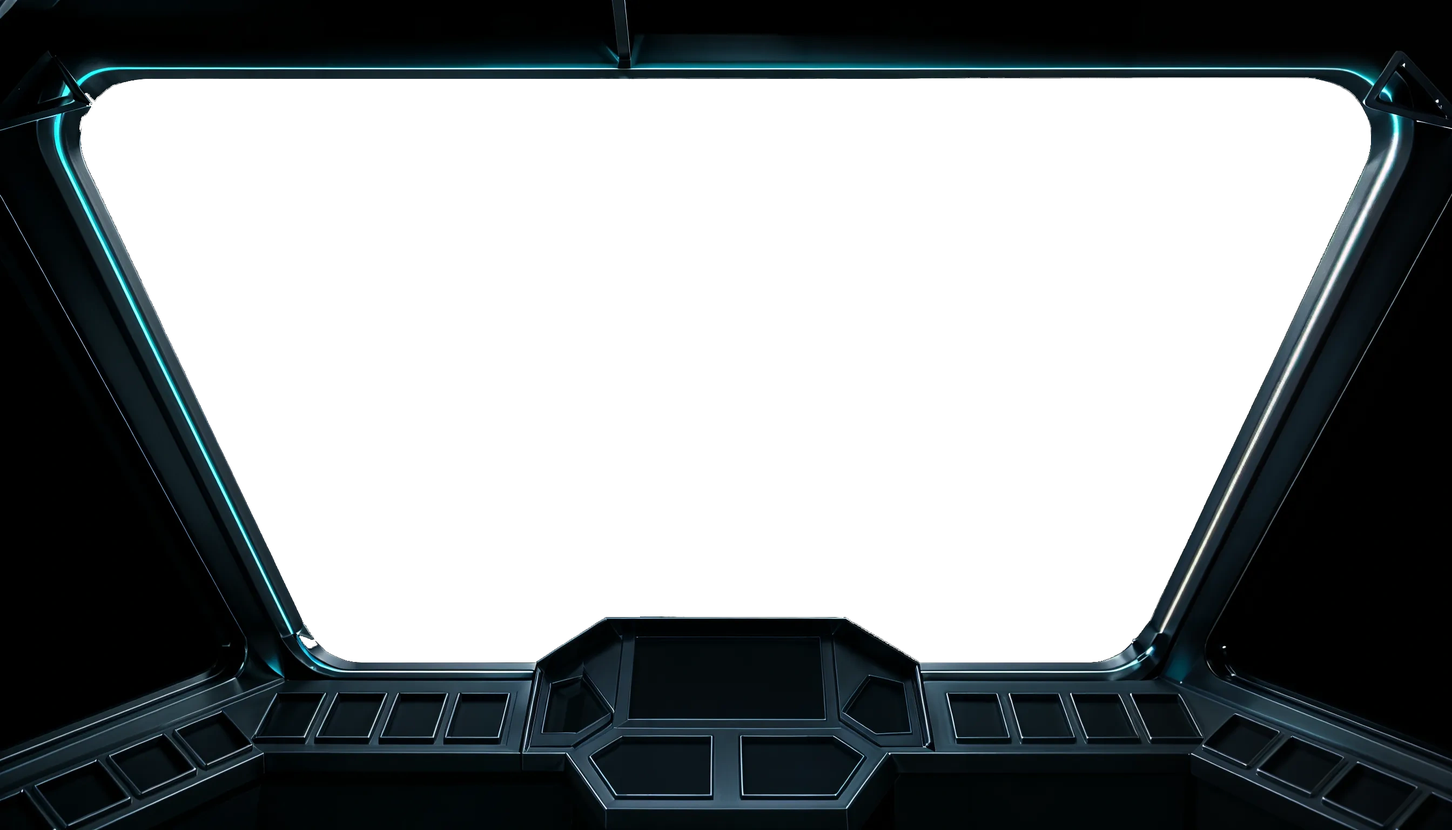
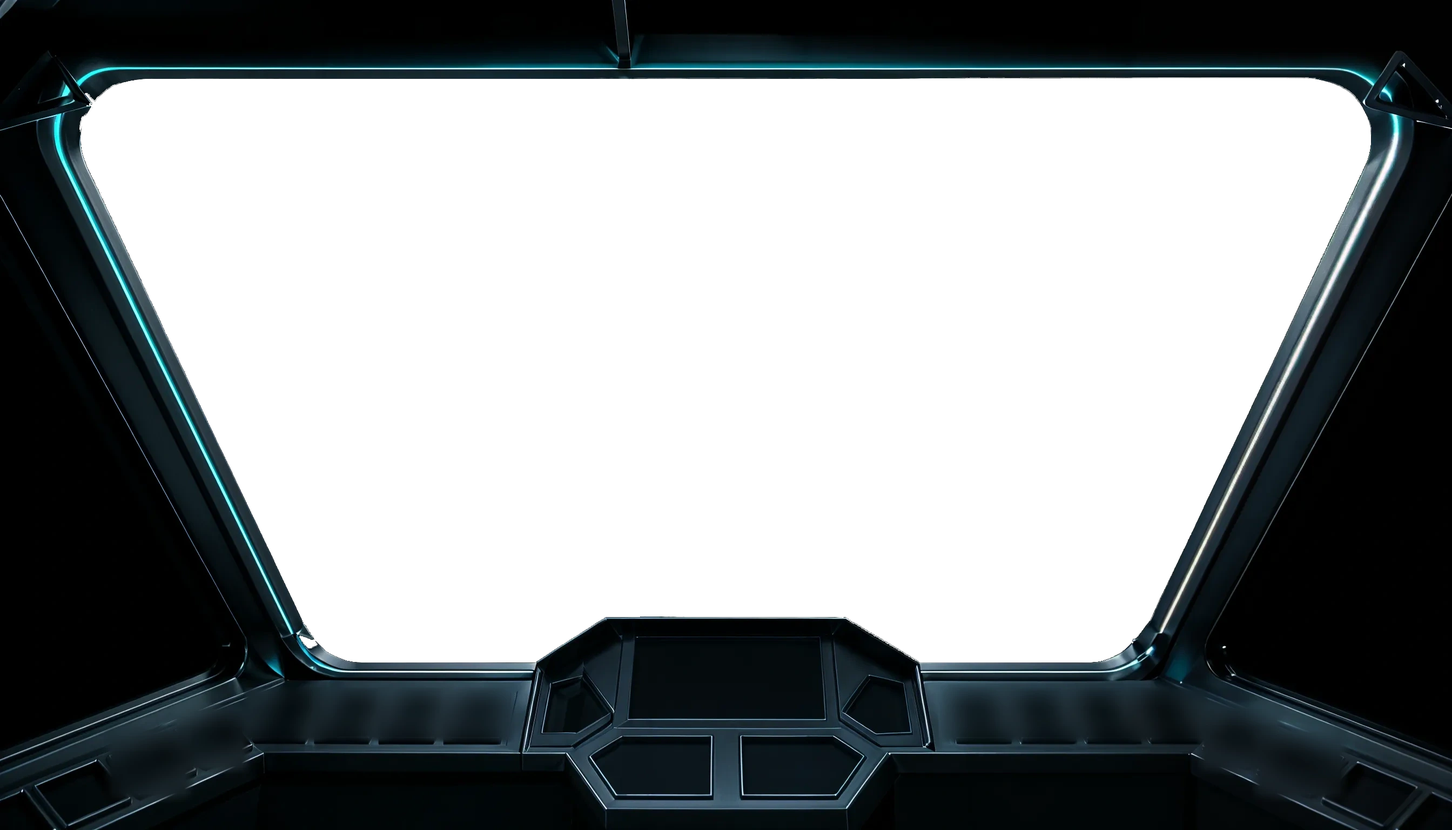
Панель вшита в стену салона, экраны в размер настоящих
Требование владельца дословно: «панель должна быть частью корабля,
вшитая в свой угол; захожу - вижу её сразу, поворачиваюсь на 360 -
она остаётся где была, приближаюсь - она не меняется; она
физически не должна быть другой или ездить по экрану».

Прежняя сборка была прибита к кадру: картинка кабины, свет
приборов и тела клавиш ехали с камерой и проявлялись к подъезду -
панель висела полупрозрачной поверх любой карточки. Теперь панель
запекается в одну текстуру (снимок кабины плюс ниши, тела и свет
клавиш - тем же кодом, что рисует их в игре) и стоит на плоскости
В МИРЕ салона, на луче финальной точки в дистанции стены. Из
финальной точки она заполняет кадр один в один - первый кадр игры
показывает ту же картину тем же снимком, подмены нет по построению.

К ней прилагаются: запас снимка по краям с растворением кромок
(обрез читался тёмной плитой), срез всего выше верхней балки
(тёмный верх снимка затемнял планету прямоугольником), тёмные
борта позади панели по бокам окна (в щели сквозила планета, на
телефоне корпус читался призраком). Экранная сборка и трёхмерная
рама в режиме сцены скрыты полностью.

Ниши на снимках кабины замазаны фоторедактором: раньше фотониши
своей геометрией двоились с рисованными телами клавиш - «кнопки
кривые, не под размер ячеек». Теперь геометрия одна: тела рисует
код, снимок даёт только корпус.

Экраны салона приведены к размеру настоящих настенных дисплеев:
прежний минимум в половину кадра и потолок в 86% превращал их в
[…]

diff --git a/rocketcdn/assets/rc-flight.js b/rocketcdn/assets/rc-flight.js
@@ -5548,6 +5548,7 @@ function hideHint() {
 
 function size() {
   if (!W3 || !F.open) return;
+  if (F.stage) stageWall();
   deckSkinSoon();
   var w = innerWidth, h = innerHeight;
   W3.r.setSize(w, h, false);
@@ -7944,6 +7945,12 @@ function open() {
     /* Салон уходит из сцены ровно в тот кадр, когда его корпус в
        проёме совпал с плоской рамкой полёта: подмены не видно, а
        геометрия комнаты больше не тратит ни кадра. */
+    if (cabin && cabin.console3 && cabin.console3.group) cabin.console3.group.visible = true;
+    if (stageWallMesh) {
+      stageWallMesh.visible = false;
+      var бт = stageWallMesh.userData.борта || [];
+      for (var бi = 0; бi < бт.length; бi++) бт[бi].visible = false;
+    }
     cabinFlightMode();
     cabFrameLayer();
     deckLayer();
@@ -9654,6 +9661,185 @@ function deckFrame(ts, dt) {
   d["кадр"](Math.min(0.05, dt || 0.016));
 }
 
+/* ── Панель, вшитая в стену салона ───────────────────────────
+   Требование владельца дословно: «панель должна быть частью
+   корабля, вшитая в свой угол, я захожу и вижу её сразу, поворачиваюсь
+   на 360 - она остаётся где была, приближаюсь - она не меняется,
+   она физически не должна быть другой или ездить по экрану».
+
+   Прежняя сборка была прибита к КАДРУ: картинка кабины, свет
+   приборов и тела клавиш ехали с камерой и проявлялись к подъезду -
+   владелец видел прозрачную панель поверх любой карточки. Теперь
+   панель запекается в ОДНУ текстуру (картинка кабины + ниши, тела и
+   свет клавиш - тем же кодом, что рисует их в игре) и натягивается
+   на плоскость, стоящую В МИРЕ салона у стены сектора остекления.
+
+   Геометрия стыка: плоскость стоит на луче взгляда финальной точки
+   p0 на расстоянии CAM_WIN и по размеру ровно заполняет фрустум из
+   p0. Значит в конце подъезда (камера в p0, взгляд по q1) панель
+   занимает кадр один в один - и первый кадр игры показывает ту же
+   картину тем же снимком. Подмены нет по построению. */
+var stageWallMesh = null, stageWallSize = { w: 0, h: 0 };
+function stageWall() {
+  if (!cabin || !W3 || !g.THREE || !g.RC_DECK || !g.RC_CAB_FLAT || !g.RC_CAB_DECK) return;
+  var T = g.THREE;
+  var W = innerWidth, H = innerHeight;
+  if (stageWallMesh && stageWallSize.w === W && stageWallSize.h === H) return;
+  var вид = g.RC_DECK["какой"](W, H);
+  var meta = g.RC_CAB_FLAT[вид] || g.RC_CAB_FLAT["широкая"];
+  var план = g.RC_CAB_DECK[вид] || g.RC_CAB_DECK["широкая"];
+  if (!meta || !план) return;
+
+  var img = new Image();
+  img.decoding = "async";
+  img.onload = function () {
+    if (!cabin || !W3) return;
+    /* Запекаем в разрешении кадра: панель на стене обязана быть
+       того же качества, что плоская рамка игры */
+    var dpr = Math.min(2, g.devicePixelRatio || 1);
+    /* Запас по краям: из глубины салона видно больше, чем кадр, и
+       без запаса плоскость обрезала снимок резкой линией прямо над
+       рамой окна. Снимок в cover-раскладке больше кадра, его
+       настоящие пиксели и продолжают панель за кромку. */
+    var PAD = 0.16;
+    var Wб = Math.round(W * (1 + PAD * 2)), Hб = Math.round(H * (1 + PAD * 2));
+    var c = doc.createElement("canvas");
+    c.width = Math.round(Wб * dpr);
+    c.height = Math.round(Hб * dpr);
+    var x = c.getContext("2d");
+    x.scale(dpr, dpr);
+    var пк = g.RC_DECK["покрытие"](meta, W, H);
+    var сдвX = Math.round(W * PAD), сдвY = Math.round(H * PAD);
+    x.drawImage(img, пк.ox + сдвX, пк.oy + сдвY, пк.dw, пк.dh);
+    x.translate(сдвX, сдвY);
+    /* Ниши, тела и свет клавиш - тем же модулем, что в игре:
+       панель на стене и панель в игре не могут разойтись */
+    try {
+      var d2 = g.RC_DECK.создать();
+      d2.вид(meta, план, doc.documentElement.lang !== "en");
+      d2.размер(W, H, dpr);
+      d2.кадр(0.016);
+      if (d2["тело"]) x.drawImage(d2["тело"], 0, 0, W, H);
+      x.globalCompositeOperation = "screen";
+      x.drawImage(d2.canvas, 0, 0, W, H);
+      x.globalCompositeOperation = "source-over";
+    } catch (eD) {}
+
+    /* Кромка растворяется: обрез снимка на границе запаса читался
+       тёмной плитой поверх космоса. Маска собирается отдельным
+       холстом (полный залив, края стёрты градиентами) и снимается
+       одной операцией: иначе каждая полоса destination-in стирала
+       бы всё вне себя. */
+    var мк = doc.createElement("canvas");
+    мк.width = c.width; мк.height = c.height;
+    var мх = мк.getContext("2d");
+    мх.scale(dpr, dpr);
+    мх.fillStyle = "#fff";
+    мх.fillRect(0, 0, Wб, Hб);
+    мх.globalCompositeOperation = "destination-out";
+    var кр = Math.round(Math.min(Wб, Hб) * 0.10);
+    var гЛ = мх.createLinearGradient(0, 0, кр, 0);
+    гЛ.addColorStop(0, "rgba(0,0,0,1)"); гЛ.addColorStop(1, "rgba(0,0,0,0)");
+    мх.fillStyle = гЛ; мх.fillRect(0, 0, кр, Hб);
+    var гП = мх.createLinearGradient(Wб - кр, 0, Wб, 0);
+    гП.addColorStop(0, "rgba(0,0,0,0)"); гП.addColorStop(1, "rgba(0,0,0,1)");
+    мх.fillStyle = гП; мх.fillRect(Wб - кр, 0, кр, Hб);
+    /* Сверху стираем всё выше верхней балки рамы: тёмный верх
+       снимка затемнял планету прямоугольником. Балку оставляем,
+       переход в полсотни точек прямо над ней. */
+    var yр = пк.oy + сдвY + (meta["коробка"] && meta["коробка"].t ? meta["коробка"].t : 0.09) * пк.dh;
+    var гВ = мх.createLinearGradient(0, Math.max(0, yр - 52), 0, yр + 8);
+    гВ.addColorStop(0, "rgba(0,0,0,1)"); гВ.addColorStop(1, "rgba(0,0,0,0)");
+    мх.fillStyle = гВ; мх.fillRect(0, 0, Wб, Math.max(0, yр + 8));
+    var гН = мх.createLinearGradient(0, Hб - кр, 0, Hб);
+    гН.addColorStop(0, "rgba(0,0,0,0)"); гН.addColorStop(1, "rgba(0,0,0,1)");
+    мх.fillStyle = гН; мх.fillRect(0, Hб - кр, Wб, кр);
+    x.setTransform(1, 0, 0, 1, 0, 0);
+    x.globalCompositeOperation = "destination-in";
+    x.drawImage(мк, 0, 0);
+    x.globalCompositeOperation = "source-over";
+
+
+    var tex = new T.CanvasTexture(c);
+    if (T.SRGBColorSpace) tex.colorSpace = T.SRGBColorSpace;
+    tex.anisotropy = 4;
+
+    /* Плоскость по фрустуму из p0 на дистанции стены */
+    var D = (g.RC_PANEL && g.RC_PANEL.CAM_WIN) || 0.86;
+    var fovV = (W3.fov0 || 72) * Math.PI / 180;
+    var Hm0 = 2 * D * Math.tan(fovV / 2);
+    var Wm0 = Hm0 * (W / H);
+    var Hm = Hm0 * (1 + PAD * 2);
+    var Wm = Wm0 * (1 + PAD * 2);
+    if (stageWallMesh) {
+      try {
+        var бт2 = stageWallMesh.userData.борта || [];
+        for (var бj = 0; бj < бт2.length; бj++) {
+          бт2[бj].parent && бт2[бj].parent.remove(бт2[бj]);
+          бт2[бj].geometry.dispose(); бт2[бj].material.dispose();
+        }
+        stageWallMesh.parent && stageWallMesh.parent.remove(stageWallMesh);
+        stageWallMesh.geometry.dispose();
+        stageWallMesh.material.map && stageWallMesh.material.map.dispose();
+        stageWallMesh.material.dispose();
+      } catch (eR) {}
+      stageWallMesh = null;
+    }
+    var mesh = new T.Mesh(
+      new T.PlaneGeometry(Wm, Hm),
+      new T.MeshBasicMaterial({ map: tex, transparent: true, fog: false })
+    );
+    /* Ставим в мировых координатах по лучу q1 из p0, затем переводим
+       в локаль салона: группа может быть повешена на камеру в полёте,
+       и стена обязана жить в её системе, чтобы прятаться вместе со
+       всем салоном. */
+    var dir = new T.Vector3(0, 0, -1).applyQuaternion(cabin.q1);
+    var посадка = cabin.p0.clone().addScaledVector(dir, D);
+    mesh.position.copy(посадка);
+    mesh.quaternion.copy(cabin.q1);
+    mesh.renderOrder = 4;
+    cabin.group.updateMatrixWorld(true);
+    cabin.group.worldToLocal(mesh.position);
+    /* Поворот тоже в локаль: у группы есть свой yaw */
+    var qInv = cabin.group.getWorldQuaternion(new T.Quaternion()).invert();
+    mesh.quaternion.premultiply(qInv);
+    cabin.group.add(mesh);
+    /* Борт за панелью. Панель уже сектора, и в щели между её
+       растворённой кромкой и краем проёма сквозила планета - на
+       телефоне корпус читался призраком. Две тёмные полосы позади
+       панели закрывают щели по бокам ОКНА, само окно не трогают:
+       из финальной точки они за кромкой кадра и стыку не мешают. */
+    var кб = meta["коробка"] || { l: 0.1, r: 0.9 };
+    function бокс(x0м, x1м) {
+      var bw = x1м - x0м;
+      if (bw <= 0.01) return;
+      var b = new T.Mesh(
+        new T.PlaneGeometry(bw, Hm * 1.5),
+        new T.MeshBasicMaterial({ color: 0x060d16, fog: false })
+      );
+      b.position.copy(посадка).addScaledVector(dir, 0.03);
+      b.quaternion.copy(mesh.quaternion);
+      /* Сдвиг вбок в плоскости панели */
+      var right = new T.Vector3(1, 0, 0).applyQuaternion(cabin.q1);
+      b.position.addScaledVector(right, (x0м + x1м) / 2);
+      cabin.group.worldToLocal(b.position);
+      b.quaternion.copy(mesh.quaternion);
+      b.renderOrder = 3;
+      cabin.group.add(b);
+      mesh.userData.борта.push(b);
+    }
+    mesh.userData.борта = [];
+    /* Координаты кромок окна снимка в метрах плоскости */
+    var xлк = ((пк.ox + сдвX + кб.l * пк.dw) / Wб - 0.5) * Wm;
+    var xпк = ((пк.ox + сдвX + кб.r * пк.dw) / Wб - 0.5) * Wm;
+    бокс(-Wm * 0.95, xлк + Wm * 0.02);
+    бокс(xпк - Wm * 0.02, Wm * 0.95);
+    stageWallMesh = mesh;
+    stageWallSize.w = W; stageWallSize.h = H;
+  };
+  img.src = meta["файл"];
+}
+
 function cabFrameLayer() {
   if (!ui || !ui.wrap) return;
   var M = g.RC_CAB_FLAT;
@@ -9803,6 +9989,8 @@ function stageCam(dt) {
   var yaw = yawT + (Math.PI * 2 - yawT) * ek + survey;
   F.stageYaw = yaw;
 
+
+
   /* Дыхание: человек не штатив. На подъезде затухает - там кадр
      обязан встать намертво. */
   F.stageT = (F.stageT || 0) + dt;
@@ -9879,9 +10067,9 @@ function stageCam(dt) {
        входа. Раньше opacity=0 до 62% подъезда и человек несколько
        экранов видел другой, схематичный салон — это и воспринималось
        как подмена панели. */
-    var fo = 0.94 + ek * 0.06;
-    C.frame.material.opacity = fo;
-    C.frame.visible = true;
+    /* Плоского корпуса на камере в салоне больше нет: панель
+       вшита в стену. Узел скрыт всегда. */
+    C.frame.visible = false;
   }
   /* Свет пульта разгорается вместе с подходом, а общий свет
      помещения к концу подъезда гаснет. Это не приём ради приёма:
@@ -9926,10 +10114,7 @@ function stageCam(dt) {
      самого пульта - ровно 1:1, как в полёте. Совпадение в конце
      обязательно, на нём и держится бесшовность: кадр перед нажатием
      кнопки и первый кадр игры должны быть одним и тем же кадром. */
-  if (ui.cabFrame && ui.wrap) {
-    ui.wrap.style.setProperty("--rcf-cabs", (0.62 + 0.38 * ek).toFixed(3));
-    ui.wrap.style.setProperty("--rcf-cabo", (0.30 + 0.70 * ek).toFixed(3));
-  }
+
 
   var dim = Math.max(0, Math.min(1, (ek - 0.55) / 0.4));
   if (C.deskLight) C.deskLight.intensity = 0.9 + ek * 1.9;
@@ -10072,8 +10257,13 @@ function stage(k) {
      голограмме, висящей в пустоте, а по нажатию кнопки вокруг него
      внезапно возникала рубка. Это и была подмена, о которой он
      говорил. Картинка одна и та же, меняется только расстояние. */
-  cabFrameLayer();
   cabinBuild();
+  /* Панель теперь вшита в стену салона, а не прибита к кадру:
+     экранную сборку (картинку кабины, свет и тела клавиш) в сцене
+     не показываем вовсе, и трёхмерную раму тоже - на стене стоит
+     тот же снимок с теми же клавишами, одной текстурой. */
+  stageWall();
+  if (cabin && cabin.console3 && cabin.console3.group) cabin.console3.group.visible = false;
   /* Гул корабля в салоне. Тише, чем в полёте: двигатель на холостом,
      работает вентиляция и приборы. Без него помещение читается
      картинкой - в кино корабль всегда слышно. */

diff --git a/rocketcdn/assets/rc-cinema.js b/rocketcdn/assets/rc-cinema.js
@@ -525,7 +525,7 @@ function fitPanels(ring, cards) {
     if (h > need) need = h;
   });
   if (!need) { CSSDEL(ring, "--cab-h-scr"); return; }
-  var cap = Math.round(innerHeight * 0.62);
+  var cap = Math.round(innerHeight * (phone ? 0.62 : 0.46));
   CSSVAR(ring, "--cab-h-scr", Math.max(200, Math.min(need + 2, cap)) + "px");
 }
 
@@ -548,7 +548,16 @@ function roomFit(ring) {
      владелец просил «чтобы экраны стояли, а я оборачивался и читал»:
      соседний уходит за кромку кадра раньше, чем читаемый до неё
      доедет, и два текста не накладываются друг на друга. */
-  var w = Math.max(innerWidth * 0.50, Math.min(k * panel * 0.78, innerWidth * 0.86));
+  /* Размер настенного дисплея - как у настоящего: экран занимает
+     чуть больше половины СВОЕЙ стеновой панели и никогда не
+     распухает на полкадра. Прежний минимум в половину экрана и
+     потолок в 86% превращали приборы в кинотеатральные полотна от
+     пола до потолка - владелец назвал это перебором, и по делу.
+     На телефоне пропорции свои: стена ближе, и экрану положено
+     быть шире, иначе текст не читается. */
+  var w = phone
+    ? Math.max(innerWidth * 0.58, Math.min(k * panel * 0.72, innerWidth * 0.84))
+    : Math.max(innerWidth * 0.30, Math.min(k * panel * 0.60, innerWidth * 0.46));
 
   CSSVAR(ring, "--cab-r", Math.round(rc) + "px");
   CSSVAR(ring, "--cab-p", Math.round(pp) + "px");

diff --git a/rocketcdn/assets/rc-flight.css b/rocketcdn/assets/rc-flight.css
@@ -5172,3 +5172,15 @@ html.rc-deep-inside .totop.on {
   line-height: 1.5;
   color: var(--tx-2, rgba(226,238,252,.72));
 }
+
+/* ═══ Панель вшита в стену салона ═══
+   Экранная сборка панели в режиме сцены не показывается вовсе:
+   картинка кабины, свет приборов и тела клавиш запечены в одну
+   текстуру на стене сектора остекления (stageWall). Панель стоит
+   в мире, не ездит с камерой и один в один совпадает с кадром
+   игры в конце подъезда. */
+.rc-flight.rcf-stage .rcf-cabframe,
+.rc-flight.rcf-stage .rcf-instr,
+.rc-flight.rcf-stage .rcf-caps {
+  display: none !important;
+}
